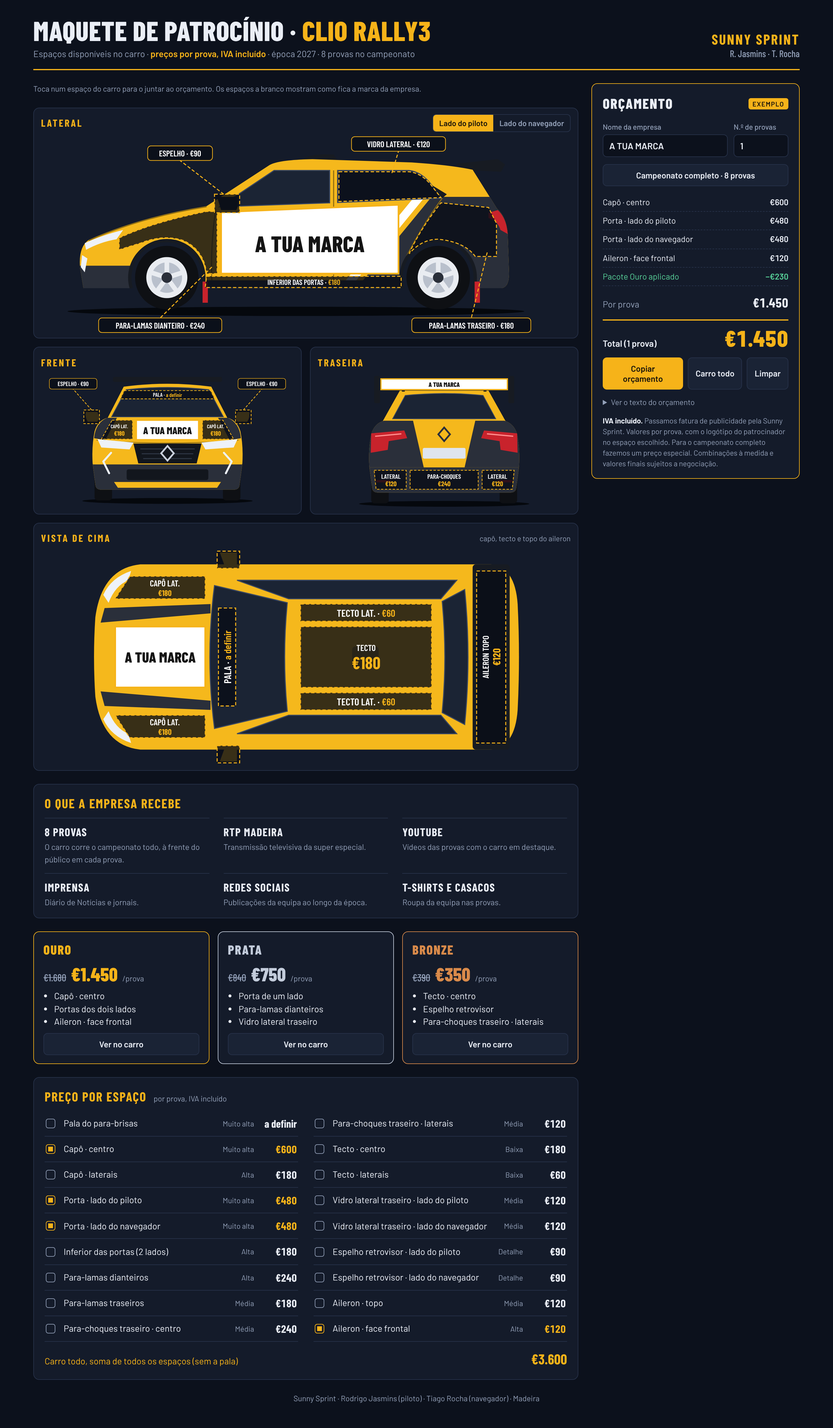
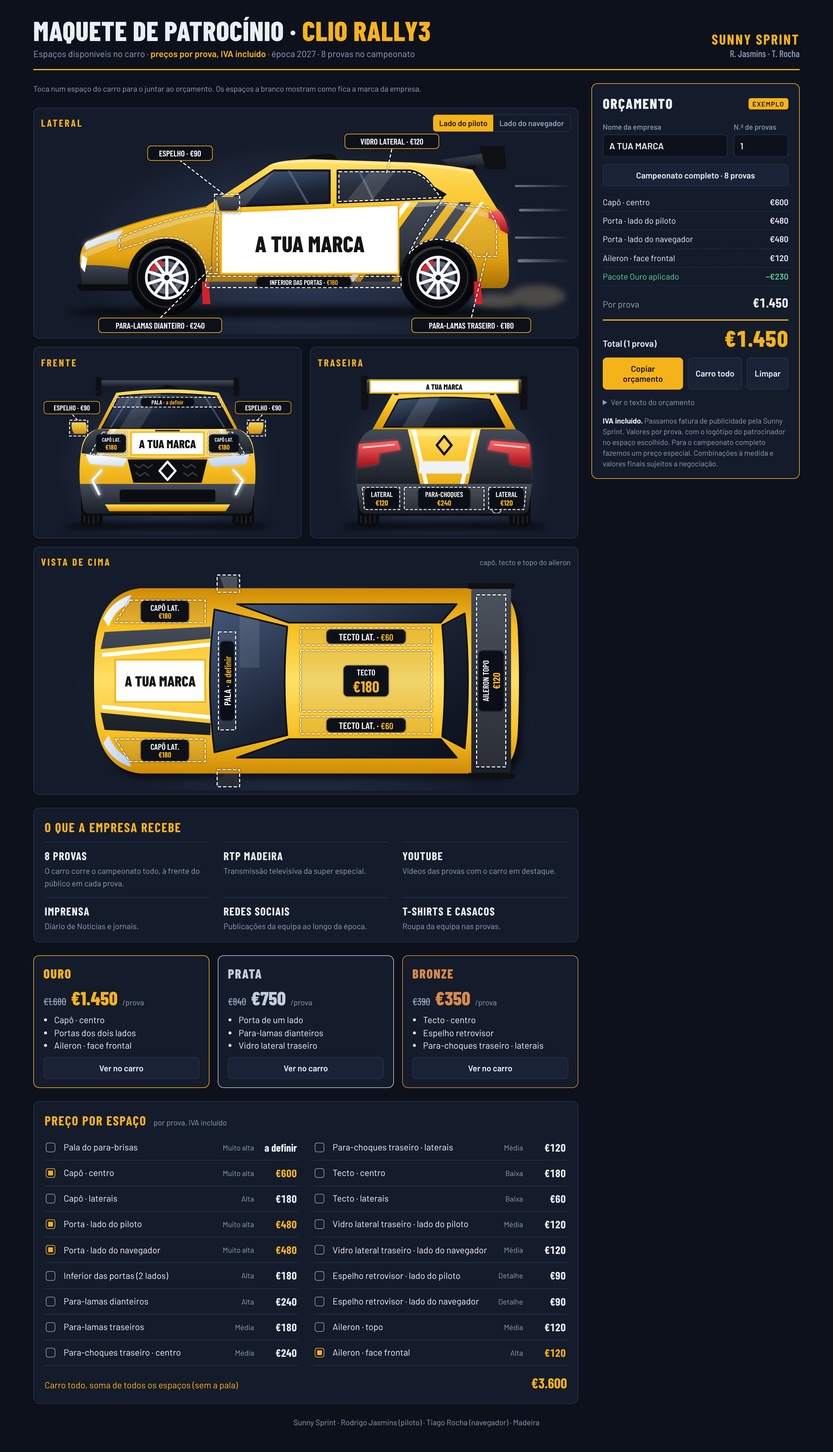
Maquete de patrocínio: carro redesenhado com volume, luz e pintura
Claude-Session: https://claude.ai/code/session_019YqaTtpEMJRoTKyhrNHvgL

diff --git a/patrocinio/maquete.html b/patrocinio/maquete.html
@@ -42,14 +42,18 @@ h1 span{color:var(--accent)}
 svg{display:block;width:100%;height:auto}
 svg text{font-family:var(--display);font-weight:700;pointer-events:none;text-anchor:middle;dominant-baseline:central}
 .z{cursor:pointer}
-.z path{fill:rgba(9,13,22,.8);stroke:var(--accent);stroke-width:1.5;stroke-dasharray:5 3;transition:fill .12s}
-.z:hover path,.z.hl path{fill:rgba(246,179,25,.38)}
+.z{filter:drop-shadow(0 0 1.2px rgba(0,0,0,.95))}
+.z.on{filter:none}
+.z path{fill:rgba(255,255,255,.07);stroke:#fff;stroke-width:1.6;stroke-dasharray:5 3;transition:fill .12s}
+.z:hover path,.z.hl path{fill:rgba(255,255,255,.4)}
+.pill{fill:#0b101a;fill-opacity:.9}
+.stage{border-radius:8px;background:radial-gradient(ellipse 62% 78% at 50% 60%,#33425f 0%,rgba(20,27,42,0) 72%)}
 .z.on path{fill:#fff;stroke:var(--accent);stroke-width:2.5;stroke-dasharray:none}
 .z .nm{fill:#fff;font-weight:600}.z .pr{fill:var(--accent)}
 .z.on .br{fill:#141414;font-weight:800}
 .chip rect{fill:#0b101a;stroke:var(--accent);stroke-width:1}
 .chip.on rect{fill:var(--accent)}.chip text{fill:#fff;font-weight:600}.chip.on text{fill:var(--accent-ink)}
-.lead{stroke:var(--accent);stroke-width:1.2;fill:none}
+.lead{stroke:#fff;stroke-width:1.3;fill:none;stroke-dasharray:3 3}
 .hint{color:var(--muted);font-size:13px;margin:0}
 /* Pacotes */
 .packs{display:grid;grid-template-columns:repeat(3,minmax(0,1fr));gap:14px}
@@ -128,11 +132,11 @@ footer{color:var(--muted);font-size:13px;text-align:center}
               <button id="side-p" type="button">Lado do piloto</button><button id="side-n" type="button">Lado do navegador</button>
             </div>
           </div>
-          <div id="v-side"></div>
+          <div id="v-side" class="stage"></div>
         </div>
-        <div class="view"><div class="vh"><h3>Frente</h3></div><div id="v-front"></div></div>
-        <div class="view"><div class="vh"><h3>Traseira</h3></div><div id="v-rear"></div></div>
-        <div class="view wide"><div class="vh"><h3>Vista de cima</h3><small>capô, tecto e topo do aileron</small></div><div id="v-top"></div></div>
+        <div class="view"><div class="vh"><h3>Frente</h3></div><div id="v-front" class="stage"></div></div>
+        <div class="view"><div class="vh"><h3>Traseira</h3></div><div id="v-rear" class="stage"></div></div>
+        <div class="view wide"><div class="vh"><h3>Vista de cima</h3><small>capô, tecto e topo do aileron</small></div><div id="v-top" class="stage"></div></div>
       </div>
 
       <div class="panel">
@@ -178,6 +182,18 @@ footer{color:var(--muted);font-size:13px;text-align:center}
   <footer>Sunny Sprint · Rodrigo Jasmins (piloto) · Tiago Rocha (navegador) · Madeira</footer>
 </div>
 
+<svg width="0" height="0" style="position:absolute" aria-hidden="true"><defs>
+  <linearGradient id="gBody" x1="0" y1="0" x2="0" y2="1"><stop offset="0" stop-color="#ffe066"/><stop offset=".42" stop-color="#f9c022"/><stop offset="1" stop-color="#d48f06"/></linearGradient>
+  <linearGradient id="gRound" x1="0" y1="0" x2="0" y2="1"><stop offset="0" stop-color="#cf8b06"/><stop offset=".22" stop-color="#f9c022"/><stop offset=".5" stop-color="#ffe066"/><stop offset=".78" stop-color="#f9c022"/><stop offset="1" stop-color="#cf8b06"/></linearGradient>
+  <linearGradient id="gGlass" x1="0" y1="0" x2="1" y2="1"><stop offset="0" stop-color="#465a7c"/><stop offset=".5" stop-color="#1a2334"/><stop offset="1" stop-color="#0b111c"/></linearGradient>
+  <linearGradient id="gDark" x1="0" y1="0" x2="0" y2="1"><stop offset="0" stop-color="#444b59"/><stop offset="1" stop-color="#1a1e26"/></linearGradient>
+  <linearGradient id="gRed" x1="0" y1="0" x2="0" y2="1"><stop offset="0" stop-color="#ff6464"/><stop offset="1" stop-color="#a40f1a"/></linearGradient>
+  <linearGradient id="gLamp" x1="0" y1="0" x2="1" y2="1"><stop offset="0" stop-color="#ffffff"/><stop offset="1" stop-color="#b4cdf5"/></linearGradient>
+  <linearGradient id="gStreak" x1="0" y1="0" x2="1" y2="0"><stop offset="0" stop-color="#fff" stop-opacity=".4"/><stop offset="1" stop-color="#fff" stop-opacity="0"/></linearGradient>
+  <linearGradient id="gShade" x1="0" y1="0" x2="0" y2="1"><stop offset="0" stop-color="#000" stop-opacity="0"/><stop offset="1" stop-color="#000" stop-opacity=".28"/></linearGradient>
+  <filter id="fBlur" x="-30%" y="-150%" width="160%" height="400%"><feGaussianBlur stdDeviation="5"/></filter>
+  <filter id="fGlow" x="-60%" y="-60%" width="220%" height="220%"><feGaussianBlur stdDeviation="3.5"/></filter>
+</defs></svg>
 <script>
 const Z = {
   'pala':   {n:'Pala do para-brisas', s:'PALA', v:'Muito alta', p:null},
@@ -215,72 +231,108 @@ const price = id => Z[id].p == null ? 'a definir' : eur(Z[id].p);
 
 /* ---------- Desenhos do carro ---------- */
 /* Renault Clio (2024) à escala real: 4,05 m de comprimento, 1,80 m de largura, 2,58 m entre eixos. */
-const wheel = (x,y) => `<circle cx="${x}" cy="${y}" r="48" fill="#0e1014"/><circle cx="${x}" cy="${y}" r="31" fill="#e9ecf1"/>
-  <circle cx="${x}" cy="${y}" r="23" fill="#b9c0cc"/>${[0,72,144,216,288].map(a=>`<rect x="${x-3.5}" y="${y-30}" width="7" height="30" fill="#e9ecf1" transform="rotate(${a} ${x} ${y})"/>`).join('')}
-  <circle cx="${x}" cy="${y}" r="8" fill="#2a2f3a"/>`;
+const wheel = (x,y) => `<circle cx="${x}" cy="${y}" r="48" fill="#0b0c0f"/><circle cx="${x}" cy="${y}" r="44.5" fill="none" stroke="#30343c" stroke-width="1.5"/>
+  <circle cx="${x}" cy="${y}" r="33" fill="#121419"/><circle cx="${x}" cy="${y}" r="25" fill="#5b6370"/><circle cx="${x}" cy="${y}" r="17" fill="#3a404a"/>
+  <path d="M${x-22} ${y-10} A24 24 0 0 1 ${x-7} ${y-23}" stroke="#e02431" stroke-width="8" fill="none"/>
+  ${[0,36,72,108,144,180,216,252,288,324].map(a=>`<rect x="${x-2.4}" y="${y-31}" width="4.8" height="25" rx="1.5" fill="#f7f8fa" transform="rotate(${a} ${x} ${y})"/>`).join('')}
+  <circle cx="${x}" cy="${y}" r="31" fill="none" stroke="#f7f8fa" stroke-width="4"/><circle cx="${x}" cy="${y}" r="9.5" fill="#f7f8fa"/><circle cx="${x}" cy="${y}" r="4" fill="#1b1e24"/>
+  <path d="M${x-41} ${y-22} A46.5 46.5 0 0 1 ${x+6} ${y-46}" stroke="#fff" stroke-opacity=".16" stroke-width="2.5" fill="none"/>`;
 const BODY = 'M64 248 L59 218 Q56 186 72 175 Q150 140 250 124 L345 62 Q358 54 410 53 L560 58 Q620 62 652 69 L689 128 Q703 140 705 166 L707 226 Q707 246 696 248 L653.7 248 A56 56 0 1 0 546.3 248 L243.7 248 A56 56 0 1 0 136.3 248 Z';
+const SGLASS = 'M270 125 L352 70 H436 V119Z M448 70 H556 Q575 72 590 92 L606 112 L448 118.5Z';
 const LOWER = 'M136 122 H384 Q404 128 410 150 Q416 180 414 215 L408 262 Q406 270 396 270 H124 Q114 270 112 262 L106 215 Q104 180 110 150 Q116 128 136 122Z';
 const BUMPER = 'M106.5 218 H413.5 L408 262 Q406 270 396 270 H124 Q114 270 112 262Z';
-const TYRES = '<rect x="110" y="236" width="36" height="56" rx="7" fill="#0e1014"/><rect x="374" y="236" width="36" height="56" rx="7" fill="#0e1014"/>';
+const TYRES = '<rect x="108" y="234" width="38" height="58" rx="8" fill="#0b0c0f"/><rect x="374" y="234" width="38" height="58" rx="8" fill="#0b0c0f"/><path d="M114 240 V286 M122 240 V288 M130 240 V288 M138 240 V286 M382 240 V286 M390 240 V288 M398 240 V288 M406 240 V286" stroke="#23262c" stroke-width="2"/>';
+const SHADOW2 = '<ellipse cx="260" cy="292" rx="180" ry="8" fill="#000" opacity=".65" filter="url(#fBlur)"/>';
 const CAR = {
-side:`<defs><clipPath id="sb"><path d="${BODY}"/></clipPath></defs>
-  <ellipse cx="385" cy="283" rx="345" ry="7" fill="#05080d"/>
-  <path d="M626 60 L690 53 L701 61 L695 72 L650 70Z" fill="#171b22"/>
-  <path d="M394 54 Q406 44 442 46 L448 55Z" fill="#171b22"/>
-  <path d="${BODY}" fill="var(--car)"/>
+side:`<defs><clipPath id="sb"><path d="${BODY}"/></clipPath><clipPath id="sg"><path d="${SGLASS}"/></clipPath></defs>
+  <rect x="716" y="92" width="84" height="3" rx="1.5" fill="url(#gStreak)"/><rect x="722" y="128" width="78" height="4" rx="2" fill="url(#gStreak)"/>
+  <rect x="716" y="170" width="84" height="3" rx="1.5" fill="url(#gStreak)"/><rect x="720" y="204" width="80" height="5" rx="2.5" fill="url(#gStreak)"/>
+  <g filter="url(#fBlur)" opacity=".3"><ellipse cx="688" cy="268" rx="36" ry="12" fill="#cdb68c"/><ellipse cx="750" cy="260" rx="42" ry="17" fill="#cdb68c"/></g>
+  <ellipse cx="385" cy="284" rx="345" ry="9" fill="#000" opacity=".7" filter="url(#fBlur)"/>
+  <circle cx="190" cy="232" r="57" fill="#06070a"/><circle cx="600" cy="232" r="57" fill="#06070a"/>
+  <path d="M640 70 L650 50 L660 50 L656 70Z" fill="#0e1014"/>
+  <path d="M604 54 L686 42 L698 48 L694 60 L620 64Z" fill="url(#gDark)"/><path d="M662 33 L700 33 L703 68 L672 68Z" fill="#0e1014"/>
+  <path d="M394 54 Q406 43 442 45 L450 55Z" fill="#0e1014"/>
+  <path d="${BODY}" fill="url(#gBody)"/>
   <g clip-path="url(#sb)">
-    <path d="M470 256 L590 110 H720 V256Z" fill="var(--car-dark)"/><path d="M444 256 L564 110 H580 L460 256Z" fill="#fff"/>
-    <path d="M50 214 H150 V256 H50Z" fill="var(--car-dark)"/><path d="M236 236 H556 V256 H236Z" fill="var(--car-dark)"/>
+    <path d="M470 256 L570 118 H616 L516 256Z M532 256 L632 118 H650 L550 256Z" fill="url(#gDark)"/>
+    <path d="M450 256 L550 118 H559 L459 256Z M564 256 L664 118 H669 L569 256Z" fill="#fff"/>
+    <path d="M40 214 Q100 210 150 222 V256 H40Z" fill="url(#gDark)"/><path d="M236 238 H556 V256 H236Z" fill="url(#gDark)"/>
+    <path d="M60 196 Q160 152 252 133 L612 116 L702 142 V150 L612 123 L252 140 Q160 160 60 205Z" fill="#fff" opacity=".28"/>
+    <path d="M330 62 Q358 55 410 54 L560 59 Q620 63 652 70 L650 74 Q620 67 560 63 L410 58 Q358 59 334 66Z" fill="#fff" opacity=".35"/>
+    <rect x="40" y="200" width="700" height="60" fill="url(#gShade)"/>
   </g>
-  <path d="M270 125 L352 70 H436 V119Z M448 70 H556 Q575 72 590 92 L606 112 L448 118.5Z" fill="var(--glass)" stroke="#3a4760" stroke-width="1.5"/>
-  <path d="M590 92 L613 106 L606 112Z" fill="#171b22"/>
-  <path d="M66 180 Q92 168 124 160 L114 174 Q90 178 68 190Z" fill="#eef2f8"/>
-  <path d="M62 198 L70 203 L66 224 L60 216Z" fill="#eef2f8"/>
-  <path d="M676 134 L690 130 Q703 142 705 166 L694 160 Q690 146 676 142Z" fill="#c8232c"/>
-  <path d="M264 128 Q256 180 258 236 M442 70 V244 M606 112 Q578 150 552 200 M72 176 Q150 141 250 125" stroke="#8a6a12" stroke-width="1.5" fill="none"/>
-  <path d="M398 138 h26" stroke="#2a2f3a" stroke-width="4" stroke-linecap="round"/>
-  <path d="M266 110 H294 Q300 120 295 130 H272Z" fill="#171b22"/>
-  <path d="M136.3 248 A56 56 0 1 1 243.7 248 M546.3 248 A56 56 0 1 1 653.7 248" fill="none" stroke="#171b22" stroke-width="5"/>
-  <rect x="244" y="238" width="8" height="32" fill="#c8232c"/><rect x="655" y="238" width="8" height="32" fill="#c8232c"/>
+  <path d="${SGLASS}" fill="url(#gGlass)" stroke="#0e1014" stroke-width="3" stroke-linejoin="round"/>
+  <g clip-path="url(#sg)"><path d="M372 66 L404 122 M478 66 L506 122" stroke="#6a7791" stroke-opacity=".55" stroke-width="3.5"/>
+    <path d="M336 60 L362 60 L302 132 L276 132Z M506 60 L544 60 L492 126 L454 126Z" fill="#fff" opacity=".14"/></g>
+  <path d="M590 92 L613 106 L606 112Z" fill="#0e1014"/>
+  <path d="M66 180 Q92 168 124 160 L114 174 Q90 178 68 190Z" fill="#cfe2ff" filter="url(#fGlow)" opacity=".7"/>
+  <path d="M66 180 Q92 168 124 160 L114 174 Q90 178 68 190Z" fill="url(#gLamp)"/>
+  <path d="M62 198 L70 203 L66 224 L60 216Z" fill="#fff"/>
+  <path d="M676 134 L690 130 Q703 142 705 166 L694 160 Q690 146 676 142Z" fill="#ff4a4a" filter="url(#fGlow)" opacity=".7"/>
+  <path d="M676 134 L690 130 Q703 142 705 166 L694 160 Q690 146 676 142Z" fill="url(#gRed)"/>
+  <path d="M264 128 Q256 180 258 236 M442 120 V244 M606 112 Q578 150 552 200 M72 176 Q150 141 250 125" stroke="#000" stroke-opacity=".35" stroke-width="1.5" fill="none"/>
+  <path d="M398 138 h26" stroke="#0e1014" stroke-width="4" stroke-linecap="round"/>
+  <path d="M264 110 H294 Q301 120 296 131 H270Z" fill="url(#gDark)"/>
+  <path d="M136.3 248 A56 56 0 1 1 243.7 248 M546.3 248 A56 56 0 1 1 653.7 248" fill="none" stroke="#0e1014" stroke-width="6"/>
+  <path d="M54 242 H139 L137 252 H58Z" fill="#0b0c0f"/>
+  <path d="M243 238 h10 l3 34 h-12z M654 238 h10 l3 34 h-12z" fill="#d3212c"/>
   ${wheel(190,232)}${wheel(600,232)}`,
-front:`<ellipse cx="260" cy="293" rx="175" ry="6" fill="#05080d"/>${TYRES}
-  <rect x="148" y="38" width="224" height="10" rx="3" fill="#171b22"/>
-  <path d="M238 52 Q260 38 282 52Z" fill="#171b22"/>
-  <path d="M170 58 Q260 46 350 58 L384 124 H136Z" fill="var(--car)"/>
-  <path d="M175 64 Q260 55 345 64 L375 120 H145Z" fill="var(--glass)" stroke="#3a4760" stroke-width="1.5"/>
-  <path d="${LOWER}" fill="var(--car)"/>
-  <path d="M136 122 H156 L132 168 L109 164 Q112 132 136 122Z M384 122 H364 L388 168 L411 164 Q408 132 384 122Z" fill="var(--car-dark)"/>
-  <path d="${BUMPER}" fill="var(--car-dark)"/>
-  <path d="M114 168 Q260 180 406 168" stroke="#8a6a12" stroke-width="1.5" fill="none"/>
-  <path d="M116 166 L190 173 L182 187 L124 183Z M404 166 L330 173 L338 187 L396 183Z" fill="#eef2f8"/>
-  <path d="M190 175 H330 L320 216 H200Z" fill="#12161d"/>
-  <path d="M204 186 H316 M207 196 H313 M210 206 H310" stroke="#2f3745" stroke-width="2"/>
-  <path d="M260 180 L273 195 L260 210 L247 195Z" fill="#12161d" stroke="#c9d0dc" stroke-width="3.5"/>
-  <path d="M144 194 L128 212 L140 236 M376 194 L392 212 L380 236" stroke="#eef2f8" stroke-width="4" fill="none" stroke-linejoin="round" stroke-linecap="round"/>
-  <rect x="176" y="228" width="168" height="22" rx="4" fill="#12161d"/>
-  <path d="M150 254 H370 L362 266 H158Z" fill="var(--car)"/>
-  <path d="M92 110 H116 L120 122 L116 130 H96 Q90 120 92 110Z M428 110 H404 L400 122 L404 130 H424 Q430 120 428 110Z" fill="var(--car)"/>`,
-rear:`<ellipse cx="260" cy="293" rx="175" ry="6" fill="#05080d"/>${TYRES}
-  <path d="M170 58 Q260 46 350 58 L388 126 H132Z" fill="var(--car)"/>
-  <path d="M180 70 Q260 62 340 70 L366 118 H154Z" fill="var(--glass)" stroke="#3a4760" stroke-width="1.5"/>
-  <path d="${LOWER}" fill="var(--car)"/>
-  <path d="M136 122 H196 L218 218 H106.5 L106 215 Q104 180 110 150 Q116 128 136 122Z M384 122 H324 L302 218 H413.5 L414 215 Q416 180 410 150 Q404 128 384 122Z" fill="var(--car-dark)"/>
-  <path d="${BUMPER}" fill="var(--car-dark)"/>
-  <path d="M110 148 L178 142 L184 158 L146 164 L144 182 L109 188Z M410 148 L342 142 L336 158 L374 164 L376 182 L411 188Z" fill="#c8232c"/>
-  <path d="M118 154 L172 149 M402 154 L348 149" stroke="#ff8d8d" stroke-width="2.5"/>
-  <path d="M260 136 L272 150 L260 164 L248 150Z" fill="none" stroke="#2a2f3a" stroke-width="3.5"/>
-  <rect x="216" y="178" width="88" height="22" rx="3" fill="#dfe5ee"/>
-  <rect x="120" y="244" width="30" height="5" rx="2" fill="#c8232c"/><rect x="370" y="244" width="30" height="5" rx="2" fill="#c8232c"/>
-  <path d="M176 62 V44 M344 62 V44" stroke="#171b22" stroke-width="6"/>
-  <rect x="116" y="30" width="12" height="56" rx="3" fill="#171b22"/><rect x="392" y="30" width="12" height="56" rx="3" fill="#171b22"/>
-  <rect x="124" y="34" width="272" height="26" rx="4" fill="#171b22"/>`,
-top:`<path d="M270 12 h26 v22 h-18z M270 328 h26 v-22 h-18z" fill="var(--car)"/>
-  <path d="M150 30 Q92 36 82 110 Q78 170 82 230 Q92 304 150 310 L680 310 Q716 306 720 250 Q724 170 720 90 Q716 34 680 30Z" fill="var(--car)"/>
-  <path d="M90 118 L256 104 V90 L96 96Z M90 222 L256 236 V250 L96 244Z" fill="var(--car-dark)"/>
-  <path d="M94 76 Q106 50 136 40 L132 54 Q112 62 102 88Z M94 264 Q106 290 136 300 L132 286 Q112 278 102 252Z" fill="#eef2f8"/>
-  <path d="M262 62 Q248 170 262 278 L372 252 Q364 170 372 88Z M606 86 Q614 170 606 254 L640 272 Q650 170 640 68Z M296 54 H628 L604 82 H374Z M296 286 H628 L604 258 H374Z" fill="var(--glass)" stroke="#3a4760" stroke-width="1.5"/>
-  <rect x="470" y="154" width="40" height="32" rx="5" fill="#171b22" opacity=".35"/>
-  <rect x="652" y="30" width="56" height="280" rx="5" fill="#171b22"/>`
+front:`${SHADOW2}${TYRES}
+  <rect x="140" y="36" width="240" height="11" rx="3" fill="url(#gDark)"/><rect x="134" y="30" width="10" height="34" rx="3" fill="#0e1014"/><rect x="376" y="30" width="10" height="34" rx="3" fill="#0e1014"/>
+  <path d="M236 53 Q260 36 284 53Z" fill="#0e1014"/>
+  <path d="M170 58 Q260 46 350 58 L384 124 H136Z" fill="url(#gBody)"/>
+  <path d="M175 64 Q260 55 345 64 L375 120 H145Z" fill="url(#gGlass)" stroke="#0e1014" stroke-width="2.5"/>
+  <path d="M196 62 L160 119 M324 62 L360 119" stroke="#6a7791" stroke-opacity=".5" stroke-width="3"/>
+  <path d="M214 60 L250 58 L212 121 L176 121Z" fill="#fff" opacity=".12"/>
+  <path d="${LOWER}" fill="url(#gBody)"/>
+  <path d="M136 122 H384 L407 165 Q260 178 113 165Z" fill="#fff3b0" opacity=".4"/>
+  <path d="M136 122 H158 L134 168 L109 164 Q112 132 136 122Z M384 122 H362 L386 168 L411 164 Q408 132 384 122Z" fill="url(#gDark)"/>
+  <path d="M163 122 H170 L146 169 L139 168Z M357 122 H350 L374 169 L381 168Z" fill="#fff"/>
+  <path d="M238 123 h44 l-3 10 h-38z" fill="#0e1014" opacity=".85"/>
+  <path d="${BUMPER}" fill="url(#gDark)"/>
+  <path d="M114 168 Q260 180 406 168" stroke="#000" stroke-opacity=".4" stroke-width="1.5" fill="none"/>
+  <path d="M116 166 L190 173 L182 187 L124 183Z M404 166 L330 173 L338 187 L396 183Z" fill="#cfe2ff" filter="url(#fGlow)" opacity=".8"/>
+  <path d="M116 166 L190 173 L182 187 L124 183Z M404 166 L330 173 L338 187 L396 183Z" fill="url(#gLamp)"/>
+  <path d="M190 175 H330 L320 216 H200Z" fill="#0b0d11"/>
+  <path d="M202 184 l8 6 l8 -6 l8 6 l8 -6 M286 184 l8 6 l8 -6 l8 6 M204 198 l8 6 l8 -6 l8 6 M288 198 l8 6 l8 -6 l8 6" stroke="#39414f" stroke-width="2" fill="none"/>
+  <path d="M260 179 L274 195 L260 211 L246 195Z" fill="#0b0d11" stroke="#e6eaf0" stroke-width="4" stroke-linejoin="round"/>
+  <path d="M144 194 L128 212 L140 236 M376 194 L392 212 L380 236" stroke="#cfe2ff" stroke-width="7" fill="none" stroke-linejoin="round" stroke-linecap="round" filter="url(#fGlow)" opacity=".7"/>
+  <path d="M144 194 L128 212 L140 236 M376 194 L392 212 L380 236" stroke="#fff" stroke-width="4" fill="none" stroke-linejoin="round" stroke-linecap="round"/>
+  <rect x="176" y="228" width="168" height="22" rx="4" fill="#0b0d11"/>
+  <path d="M150 254 H370 L362 266 H158Z" fill="url(#gBody)"/>
+  <path d="M112 262 Q114 270 124 270 H396 Q406 270 408 262 L410 274 H110Z" fill="#0b0c0f"/>
+  <path d="M92 110 H116 L120 122 L116 130 H96 Q90 120 92 110Z M428 110 H404 L400 122 L404 130 H424 Q430 120 428 110Z" fill="url(#gBody)"/>`,
+rear:`${SHADOW2}${TYRES}
+  <path d="M170 58 Q260 46 350 58 L388 126 H132Z" fill="url(#gBody)"/>
+  <path d="M180 70 Q260 62 340 70 L366 118 H154Z" fill="url(#gGlass)" stroke="#0e1014" stroke-width="2.5"/>
+  <path d="M218 66 L254 64 L222 119 L186 119Z" fill="#fff" opacity=".12"/>
+  <path d="${LOWER}" fill="url(#gBody)"/>
+  <path d="M136 122 H384 L390 134 H130Z" fill="#fff3b0" opacity=".45"/>
+  <path d="M136 122 H196 L218 218 H106.5 L106 215 Q104 180 110 150 Q116 128 136 122Z M384 122 H324 L302 218 H413.5 L414 215 Q416 180 410 150 Q404 128 384 122Z" fill="url(#gDark)"/>
+  <path d="M203 122 H210 L232 218 H225Z M317 122 H310 L288 218 H295Z" fill="#fff"/>
+  <path d="${BUMPER}" fill="url(#gDark)"/>
+  <path d="M110 148 L178 142 L184 158 L146 164 L144 182 L109 188Z M410 148 L342 142 L336 158 L374 164 L376 182 L411 188Z" fill="#ff4a4a" filter="url(#fGlow)" opacity=".8"/>
+  <path d="M110 148 L178 142 L184 158 L146 164 L144 182 L109 188Z M410 148 L342 142 L336 158 L374 164 L376 182 L411 188Z" fill="url(#gRed)"/>
+  <path d="M118 154 L172 149 M402 154 L348 149" stroke="#ffc9c9" stroke-width="3" stroke-linecap="round"/>
+  <path d="M260 134 L273 150 L260 166 L247 150Z" fill="none" stroke="#0e1014" stroke-width="4" stroke-linejoin="round"/>
+  <rect x="216" y="178" width="88" height="22" rx="3" fill="#eef1f6"/>
+  <rect x="120" y="244" width="30" height="5" rx="2" fill="#e02431"/><rect x="370" y="244" width="30" height="5" rx="2" fill="#e02431"/>
+  <circle cx="352" cy="262" r="8" fill="#0b0c0f" stroke="#8c95a3" stroke-width="2.5"/>
+  <path d="M112 262 Q114 270 124 270 H396 Q406 270 408 262 L410 274 H110Z" fill="#0b0c0f"/>
+  <path d="M176 62 V44 M344 62 V44" stroke="#0e1014" stroke-width="7"/>
+  <rect x="114" y="28" width="13" height="60" rx="3" fill="#0e1014"/><rect x="393" y="28" width="13" height="60" rx="3" fill="#0e1014"/>
+  <rect x="124" y="34" width="272" height="26" rx="4" fill="url(#gDark)"/><rect x="124" y="34" width="272" height="5" rx="2.5" fill="#fff" opacity=".12"/>`,
+top:`<path d="M150 30 Q92 36 82 110 Q78 170 82 230 Q92 304 150 310 L680 310 Q716 306 720 250 Q724 170 720 90 Q716 34 680 30Z" fill="#000" opacity=".6" filter="url(#fBlur)" transform="translate(6 8)"/>
+  <path d="M270 12 h26 v22 h-18z M270 328 h26 v-22 h-18z" fill="url(#gDark)"/>
+  <path d="M150 30 Q92 36 82 110 Q78 170 82 230 Q92 304 150 310 L680 310 Q716 306 720 250 Q724 170 720 90 Q716 34 680 30Z" fill="url(#gRound)"/>
+  <path d="M90 122 L256 106 V88 L96 96Z M90 218 L256 234 V252 L96 244Z" fill="url(#gDark)"/>
+  <path d="M92 128 L256 112 V118 L92 134Z M92 212 L256 228 V222 L92 206Z" fill="#fff"/>
+  <path d="M94 76 Q106 50 136 40 L132 54 Q112 62 102 88Z M94 264 Q106 290 136 300 L132 286 Q112 278 102 252Z" fill="url(#gLamp)"/>
+  <path d="M262 62 Q248 170 262 278 L372 252 Q364 170 372 88Z M606 86 Q614 170 606 254 L640 272 Q650 170 640 68Z M296 54 H628 L604 82 H374Z M296 286 H628 L604 258 H374Z" fill="url(#gGlass)" stroke="#0e1014" stroke-width="2.5" stroke-linejoin="round"/>
+  <path d="M300 70 L330 78 L330 150 L300 150Z" fill="#fff" opacity=".1"/>
+  <path d="M470 150 h44 v40 h-44z" fill="#0e1014" opacity=".55"/>
+  <rect x="650" y="26" width="60" height="288" rx="5" fill="url(#gDark)"/><rect x="644" y="22" width="72" height="9" rx="3" fill="#0e1014"/><rect x="644" y="309" width="72" height="9" rx="3" fill="#0e1014"/>`
 };
 /* Zonas por vista. box = caixa do texto [x,y,l,a]; chip = etiqueta fora da peça com linha a partir de from. */
 const VIEWS = {
@@ -289,23 +341,23 @@ const VIEWS = {
     {id:'portas-inf', sh:[{d:'M250 230 H544 V247 H248Z', box:[250,230,294,17]}]},
     {id:'pl-d', sh:[{d:'M118 172 Q170 148 250 132 H266 V226 H250 Q246 190 215 176 Q185 166 150 180 Q130 186 118 190Z', chip:[180,304], from:[258,216]}]},
     {id:'pl-t', sh:[{d:'M556 196 Q572 160 604 119 L676 126 L688 150 V200 H656 Q640 178 600 174 Q575 174 556 196Z', chip:[650,304], from:[674,194]}]},
-    {id:'vidro', sh:[{d:'M450 72 H556 Q575 74 590 93 L604 111 L450 117Z', chip:[540,30], from:[530,74]}]},
+    {id:'vidro', sh:[{d:'M450 72 H556 Q575 74 590 93 L604 111 L450 117Z', chip:[530,26], from:[522,74]}]},
     {id:'esp', sh:[{d:'M262 106 H300 V134 H262Z', chip:[210,44], from:[276,106]}]}
   ]},
-  front:{vb:'0 26 520 280', zones:[
+  front:{vb:'38 20 444 286', zones:[
     {id:'pala', sh:[{d:'M171 66 H349 L357 83 H163Z', box:[171,66,178,17]}]},
     {id:'capo-c', sh:[{d:'M196 127 H324 V167 H196Z', box:[196,127,128,40]}]},
     {id:'capo-l', sh:[{d:'M146 127 H188 V166 H124Z', box:[134,129,54,36]},{d:'M332 127 H374 L396 166 H332Z', box:[332,129,54,36]}]},
-    {id:'esp-n', sh:[{d:'M88 106 H120 V134 H88Z', chip:[66,52], from:[104,106]}]},
-    {id:'esp-p', sh:[{d:'M400 106 H432 V134 H400Z', chip:[454,52], from:[416,106]}]}
+    {id:'esp-n', sh:[{d:'M88 106 H120 V134 H88Z', chip:[92,84], from:[102,106]}]},
+    {id:'esp-p', sh:[{d:'M400 106 H432 V134 H400Z', chip:[428,84], from:[418,106]}]}
   ]},
-  rear:{vb:'0 20 520 286', zones:[
+  rear:{vb:'38 20 444 286', zones:[
     {id:'ail-f', sh:[{d:'M130 36 H390 V58 H130Z', box:[130,36,260,22]}]},
     {id:'pc-c', sh:[{d:'M190 224 H330 V263 H190Z', box:[190,224,140,39]}]},
     {id:'pc-l', sh:[{d:'M116 224 H182 V263 H120Z', box:[119,224,63,39]},{d:'M338 224 H404 L400 263 H338Z', box:[338,224,63,39]}]}
   ]},
   top:{vb:'0 4 800 332', zones:[
-    {id:'capo-c', sh:[{d:'M112 124 H248 V216 H112Z', box:[112,124,136,92]}]},
+    {id:'capo-c', sh:[{d:'M112 138 H248 V202 H112Z', box:[112,138,136,64]}]},
     {id:'capo-l', sh:[{d:'M134 48 H248 V82 H112Z', box:[126,48,122,34]},{d:'M112 258 H248 V292 H134Z', box:[126,258,122,34]}]},
     {id:'pala', sh:[{d:'M268 96 H294 V244 H268Z', box:[268,96,26,148], rot:1}]},
     {id:'tecto-c', sh:[{d:'M392 124 H590 V216 H392Z', box:[392,124,198,92]}]},
@@ -316,26 +368,28 @@ const VIEWS = {
 };
 
 function labelSVG(id, sh, on, mx){
-  const z = Z[id], brand = esc(($('brand').value.trim() || 'A TUA MARCA').toUpperCase());
-  const rawLen = ($('brand').value.trim() || 'A TUA MARCA').length;
+  const z = Z[id], raw = ($('brand').value.trim() || 'A TUA MARCA').toUpperCase(), pr = price(id);
   if (sh.box){
     let [x,y,w,h] = sh.box; if (mx) x = 800 - (x + w);
     const cx = x + w/2, cy = y + h/2, W = sh.rot ? h : w, H = sh.rot ? w : h;
     const tr = sh.rot ? ` transform="rotate(-90 ${cx} ${cy})"` : '';
+    const pill = (pw, ph) => { pw = Math.min(pw, W - 2); ph = Math.min(ph, H - 2);
+      return `<rect class="pill" x="${(cx-pw/2).toFixed(1)}" y="${(cy-ph/2).toFixed(1)}" width="${pw.toFixed(1)}" height="${ph.toFixed(1)}" rx="${Math.min(6, ph/2).toFixed(1)}"/>`; };
     if (on){
-      const fs = Math.min(H*.6, (W-10)/(rawLen*.52), 34);
-      return `<text class="br" x="${cx}" y="${cy}" font-size="${fs.toFixed(1)}"${tr}>${brand}</text>`;
+      const fs = Math.min(H*.6, (W-10)/(raw.length*.52), 34);
+      return `<text class="br" x="${cx}" y="${cy}" font-size="${fs.toFixed(1)}"${tr}>${esc(raw)}</text>`;
     }
     if (H >= 34){
-      const f1 = Math.min(13, (W-8)/(z.s.length*.5)), f2 = Math.min(H*.36, 26, (W-8)/(price(id).length*.5));
-      return `<g${tr}><text class="nm" x="${cx}" y="${cy - f2*.55}" font-size="${f1.toFixed(1)}">${z.s}</text><text class="pr" x="${cx}" y="${cy + f1*.6}" font-size="${f2.toFixed(1)}">${price(id)}</text></g>`;
+      const f1 = Math.min(12.5, (W-12)/(z.s.length*.5)), f2 = Math.min(H*.34, 24, (W-12)/(pr.length*.52));
+      const ph = Math.min(H - 2, f1 + f2 + 10), top = cy - ph/2;
+      return `<g${tr}>${pill(Math.max(z.s.length*f1*.5, pr.length*f2*.54) + 16, ph)}<text class="nm" x="${cx}" y="${(top + 4 + f1/2).toFixed(1)}" font-size="${f1.toFixed(1)}">${z.s}</text><text class="pr" x="${cx}" y="${(top + ph - 4 - f2/2).toFixed(1)}" font-size="${f2.toFixed(1)}">${pr}</text></g>`;
     }
-    const t = z.s + ' · ' + price(id), fs = Math.min(H*.66, 15, (W-8)/(t.length*.47));
-    return `<text class="nm" x="${cx}" y="${cy}" font-size="${fs.toFixed(1)}"${tr}>${z.s} · <tspan class="pr">${price(id)}</tspan></text>`;
+    const t = z.s + ' · ' + pr, fs = Math.min(H*.62, 14, (W-12)/(t.length*.47));
+    return `<g${tr}>${pill(t.length*fs*.47 + 14, fs + 7)}<text class="nm" x="${cx}" y="${cy}" font-size="${fs.toFixed(1)}">${z.s} · <tspan class="pr">${pr}</tspan></text></g>`;
   }
   if (sh.chip){
     let [cx,cy] = sh.chip, [fx,fy] = sh.from; if (mx){ cx = 800 - cx; fx = 800 - fx; }
-    const t = on ? ($('brand').value.trim() || 'A TUA MARCA').toUpperCase() : z.s + ' · ' + price(id), w = t.length*6.3 + 16;
+    const t = on ? raw : z.s + ' · ' + pr, w = t.length*6.3 + 16;
     const ey = fy < cy ? cy - 11 : cy + 11;
     return `<path class="lead" d="M${fx} ${fy} L${cx} ${ey}"/><g class="chip${on?' on':''}"><rect x="${cx-w/2}" y="${cy-11}" width="${w}" height="22" rx="5"/><text x="${cx}" y="${cy}" font-size="12.5">${esc(t)}</text></g>`;
   }
